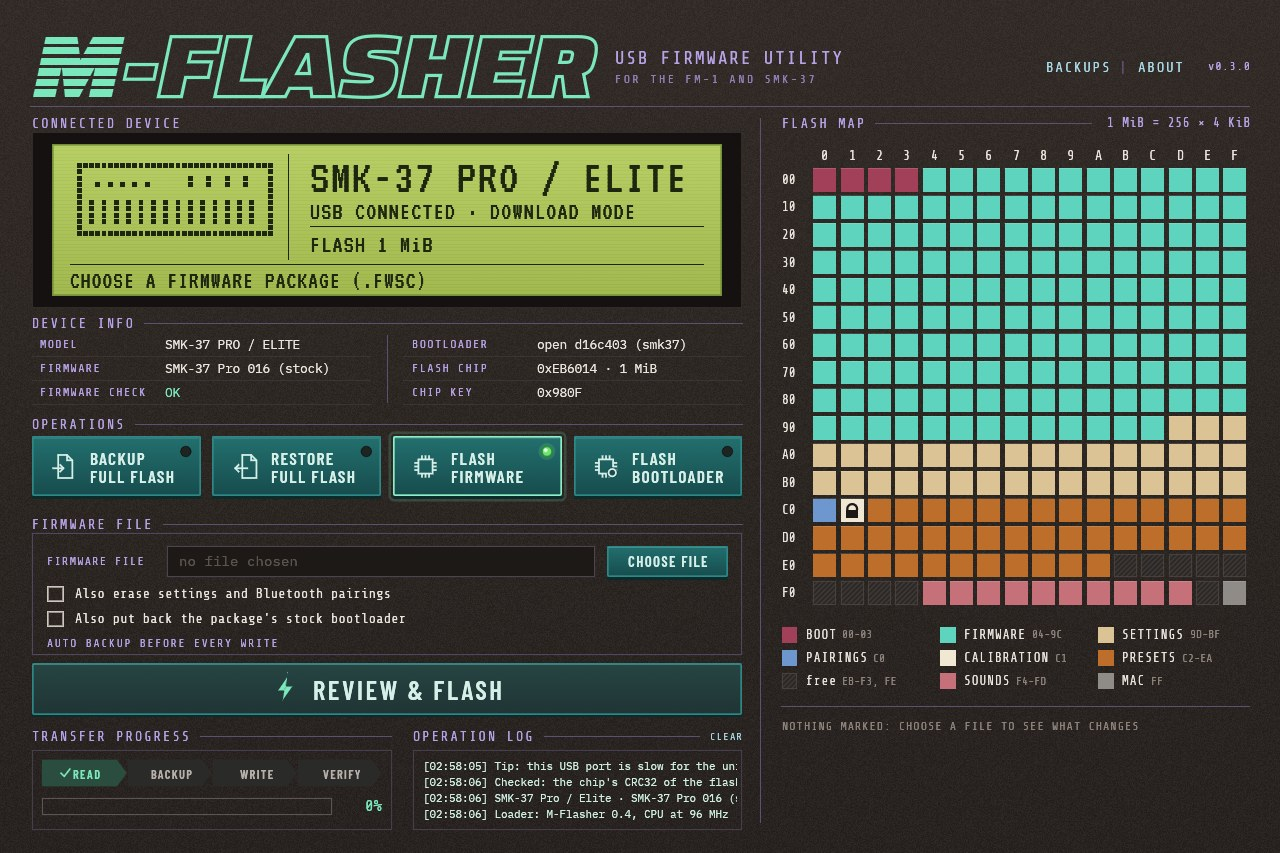
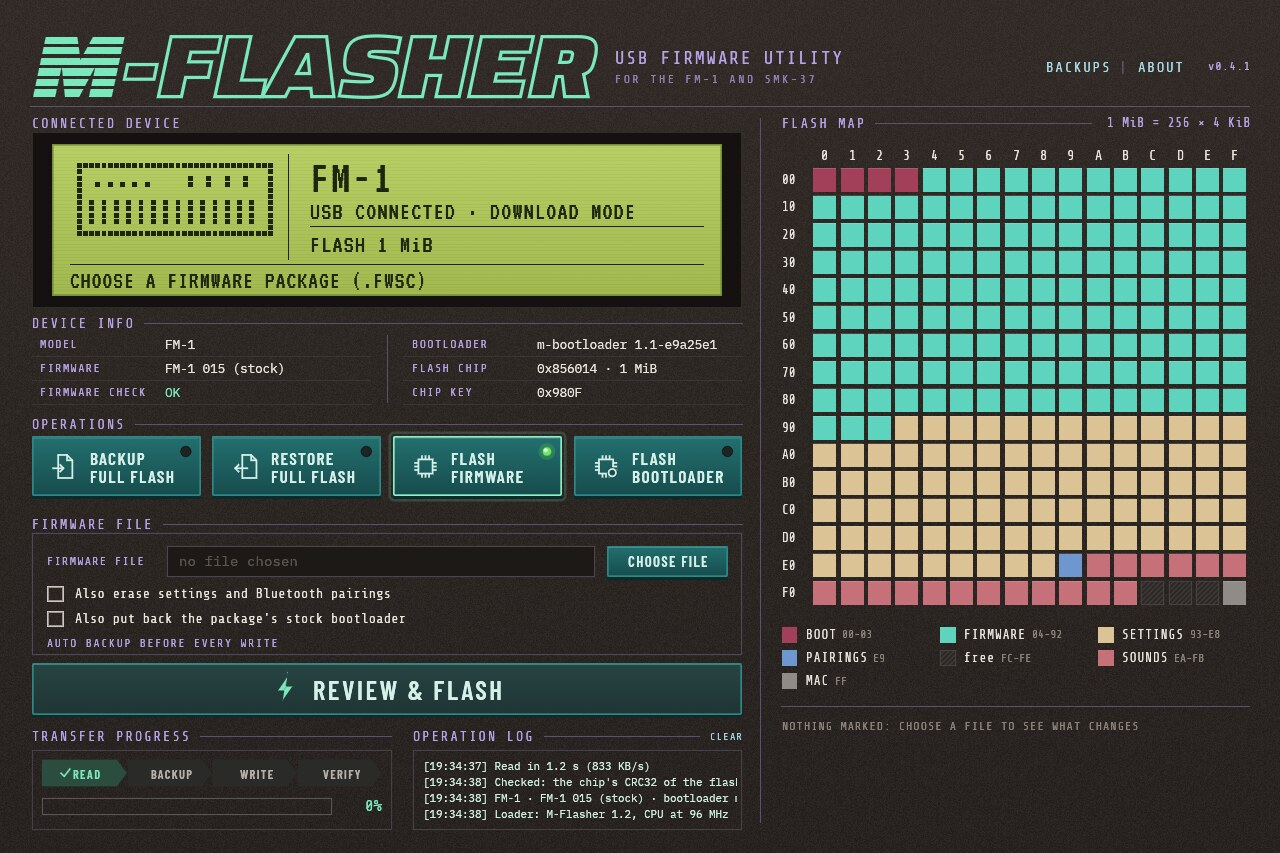
New screenshot: 0.4.1 with an FM-1 running m-bootloader

diff --git a/README.md b/README.md
@@ -9,7 +9,7 @@ the unit is broken. For Windows, macOS and Linux.
 > Unofficial: not affiliated with M-VAVE or JieLi. It saves a backup before it
 > writes anything and checks every write, but use it at your own risk.
 
-![M-Flasher connected to an SMK-37 Pro in download mode: the device panel, the operations and the flash map](docs/screenshot.jpg)
+![M-Flasher connected to an FM-1 in download mode, with m-bootloader installed: the device panel, the operations and the flash map](docs/screenshot.jpg)
 
 ## What it does
 
